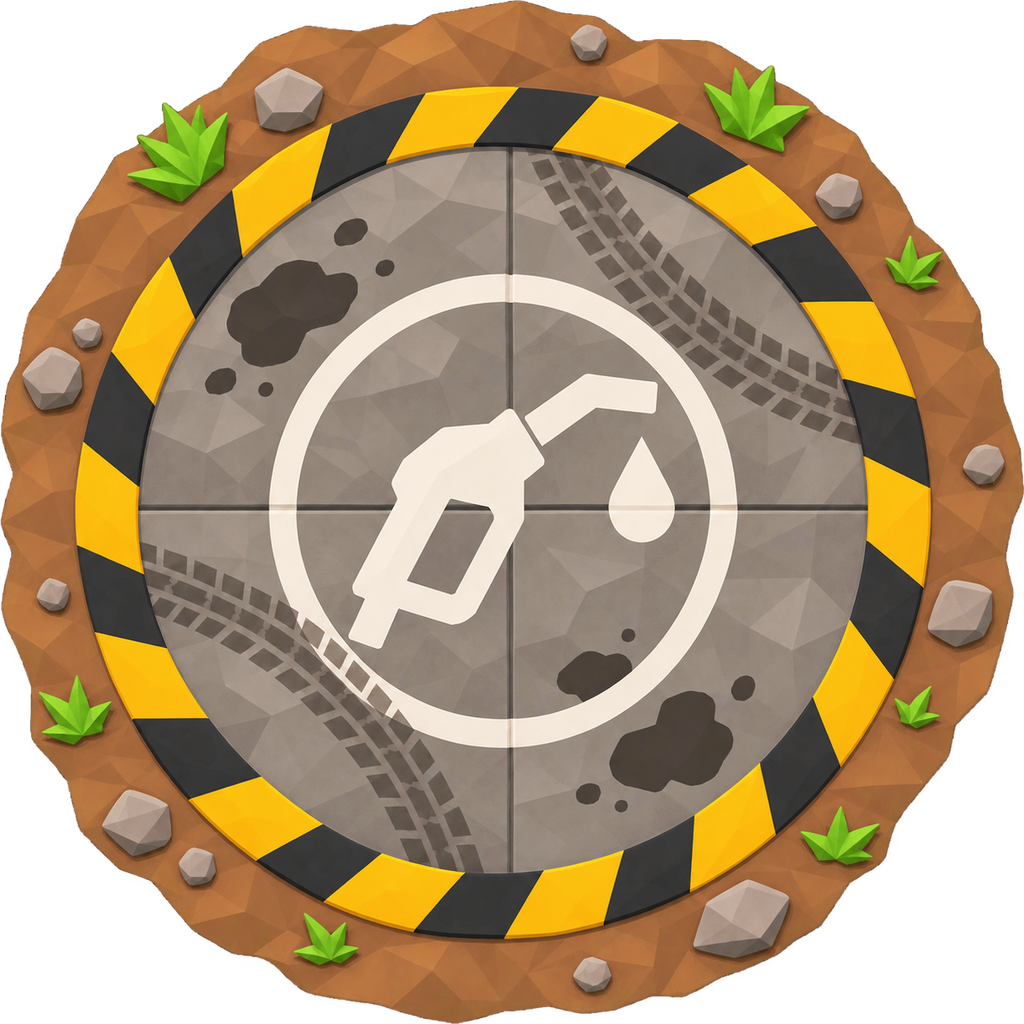
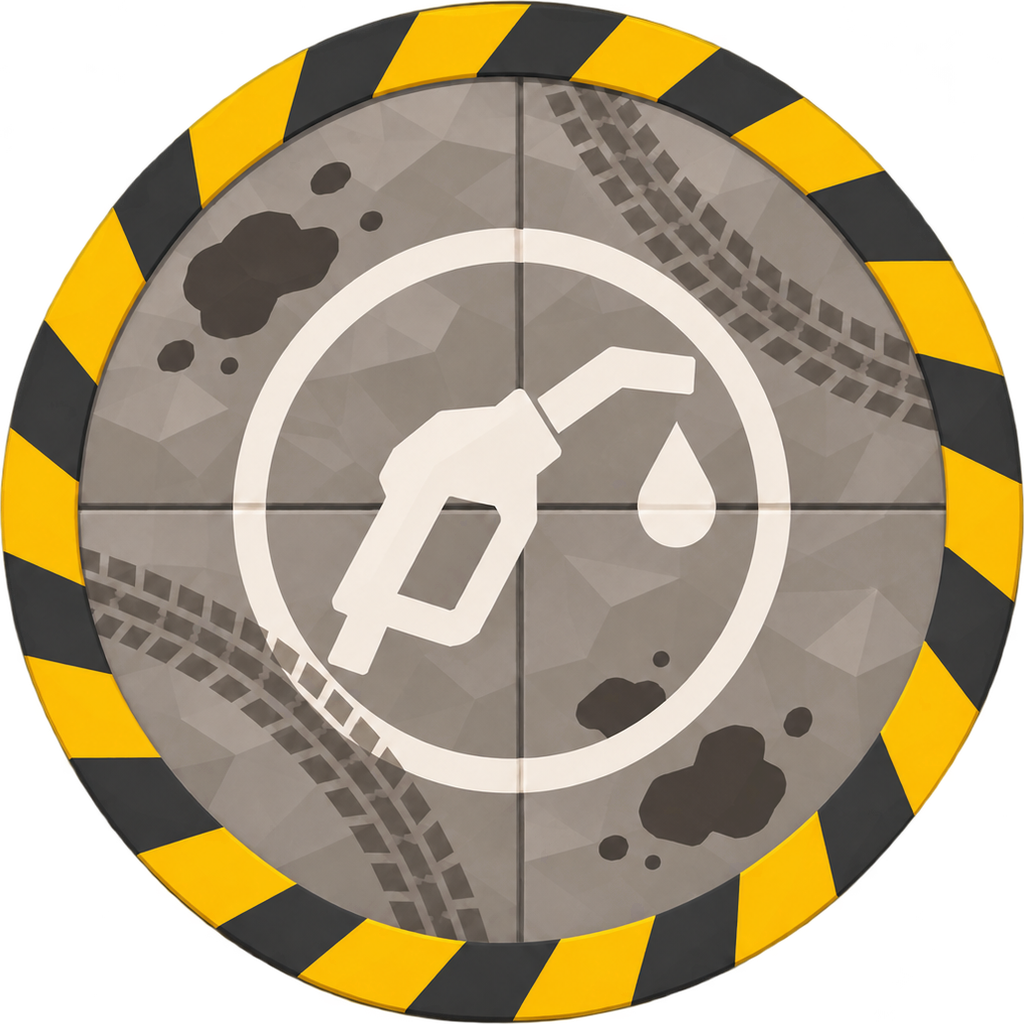
Garage: car stands on the garage floor (no platform/frame) seen from a fixed corner, button swings to the back corner (auto for rear parts); skinned car end faces in their own paint; garage footer always visible; new pump pad art
Claude-Session: https://claude.ai/code/session_01WJpr1xJfMj7kEPSM4LYWfd

diff --git a/src/scene.js b/src/scene.js
@@ -446,7 +446,12 @@ const wheelG = keep(new THREE.CylinderGeometry(1, 1, 1, 8));
 const skinTex = {};
 function skinFor(key) {
   const sk = A.skins && A.skins[key]; if (!sk) return null;
-  if (!skinTex[key]) { const tx = img => { const t = new THREE.Texture(img); t.colorSpace = THREE.SRGBColorSpace; t.anisotropy = 4; t.needsUpdate = true; t.userData.keep = true; return t }; skinTex[key] = { top: tx(sk.top), side: tx(sk.side) } }
+  if (!skinTex[key]) {
+    const tx = img => { const t = new THREE.Texture(img); t.colorSpace = THREE.SRGBColorSpace; t.anisotropy = 4; t.needsUpdate = true; t.userData.keep = true; return t };
+    // average paint colour of the roof image (opaque pixels only), darkened, for the end faces of the body block
+    let avg = null; try { const c = document.createElement('canvas'); c.width = c.height = 16; const g = c.getContext('2d'); g.drawImage(sk.top, 0, 0, 16, 16); const d = g.getImageData(0, 0, 16, 16).data; let r = 0, gg = 0, b = 0, n = 0; for (let i = 0; i < d.length; i += 4) if (d[i + 3] > 200) { r += d[i]; gg += d[i + 1]; b += d[i + 2]; n++ } if (n) avg = new THREE.Color(r / n / 255, gg / n / 255, b / n / 255).convertSRGBToLinear().multiplyScalar(.55) } catch (e) { }
+    skinTex[key] = { top: tx(sk.top), side: tx(sk.side), avg };
+  }
   return skinTex[key];
 }
 export function buildCar({ id, len: L, wid: W, color, kind, shape }) {
@@ -466,7 +471,7 @@ export function buildCar({ id, len: L, wid: W, color, kind, shape }) {
     bh = H * .55; cabH = H - bh; by = bot + bh / 2;
     const sideM = new THREE.MeshLambertMaterial({ map: sk.side, alphaTest: .45 }); sideM.color = body.color; sideM.emissive = body.emissive;
     body.alphaTest = .45; body.needsUpdate = true;
-    const endM = lam(0x3a3835);
+    const endM = lam(sk.avg || 0x3a3835); // nose and tail faces in the car's own (darkened) paint, not a black block
     const b = new THREE.Mesh(new THREE.BoxGeometry(L, H, W), [endM, endM, body, endM, sideM, sideM]); b.position.y = by - bh / 2 + H / 2; b.castShadow = b.receiveShadow = true; b.userData.skin = true; tilt.add(b);
   } else {
     const b = mesh(new THREE.BoxGeometry(L, bh, W), body); b.position.y = by; tilt.add(b);
@@ -774,7 +779,7 @@ export function initFx() {
     canSprites = Array.from({ length: 30 }, () => { const sp = new THREE.Sprite(mt); sp.scale.set(40, 40, 1); sp.visible = false; scene.add(sp); return sp });
   }
   if (A.fx.pad && !padDecal) { const tx = new THREE.Texture(A.fx.pad); tx.needsUpdate = true; tx.colorSpace = THREE.SRGBColorSpace;
-    padDecal = new THREE.Mesh(new THREE.PlaneGeometry(PUMP_R * 2.3, PUMP_R * 2.3).rotateX(-Math.PI / 2), new THREE.MeshLambertMaterial({ map: tx, transparent: true, depthWrite: false })); padDecal.position.y = .9; padDecal.receiveShadow = true; pumpG.add(padDecal); pumpG.getObjectByName('pad').visible = false }
+    padDecal = new THREE.Mesh(new THREE.PlaneGeometry(PUMP_R * 2.15, PUMP_R * 2.15).rotateX(-Math.PI / 2), new THREE.MeshLambertMaterial({ map: tx, transparent: true, depthWrite: false })); padDecal.position.y = .9; padDecal.receiveShadow = true; pumpG.add(padDecal); pumpG.getObjectByName('pad').visible = false }
   if (A.fx.fire && !fireDecal) { const tx = new THREE.Texture(A.fx.fire); tx.needsUpdate = true; tx.colorSpace = THREE.SRGBColorSpace;
     fireDecal = pool(new THREE.PlaneGeometry(1, 1).rotateX(-Math.PI / 2), addMat(tx), 300) } // additive: paint the flame on pure black
 }
@@ -1130,32 +1135,25 @@ export function portraits(cars) {
    part (and its level) shows. It sits on a slowly turning platform under a work lamp; drag to spin it. Hovering a
    part for sale previews it fitted (at the level you'd get), and the hovered slot gets a yellow outline. */
 let gp = null;
+const GARAGE_AZ = [-.62, Math.PI + .62];
+export function garageBack(on) { if (gp) gp.want = GARAGE_AZ[on ? 1 : 0] }
 export function garageView(canvas) {
   if (gp && gp.canvas === canvas) return gp;
   const r = new THREE.WebGLRenderer({ canvas, antialias: true, alpha: true });
   r.setPixelRatio(Math.min(2, window.devicePixelRatio || 1)); r.shadowMap.enabled = true; r.shadowMap.type = THREE.PCFSoftShadowMap;
   const sc = new THREE.Scene();
-  sc.add(new THREE.HemisphereLight(0xdfe8ff, 0x3a3028, 1.5));
-  const key = new THREE.DirectionalLight(0xfff0d6, 2.8); key.position.set(-50, 140, 70); key.castShadow = true;
+  sc.add(new THREE.HemisphereLight(0xffe2b8, 0x3a3028, 1.4));
+  const key = new THREE.DirectionalLight(0xffd9a0, 2.9); key.position.set(-50, 140, 70); key.castShadow = true;
   Object.assign(key.shadow.camera, { left: -80, right: 80, top: 80, bottom: -80 }); key.shadow.mapSize.set(1024, 1024); sc.add(key);
   const rim = new THREE.DirectionalLight(0x9fc8ff, 1.2); rim.position.set(80, 50, -90); sc.add(rim);
-  // the platform: dark steel disc with a hazard-striped rim and bolt heads
-  const hz = stripeTex(512, 32, (c, w, h) => { for (let i = 0; i < w / 16; i++) { c.fillStyle = i % 2 ? '#1d1b1a' : '#ffc23d'; c.beginPath(); c.moveTo(i * 16, 0); c.lineTo(i * 16 + 16, 0); c.lineTo(i * 16 + 4, h); c.lineTo(i * 16 - 12, h); c.fill() } });
-  hz.wrapS = THREE.RepeatWrapping; hz.repeat.set(3, 1);
-  const plat = new THREE.Group(); sc.add(plat);
-  const side = new THREE.Mesh(new THREE.CylinderGeometry(66, 68, 7, 40, 1, true), new THREE.MeshLambertMaterial({ map: hz })); side.position.y = -3.5; plat.add(side);
-  const disc = new THREE.Mesh(new THREE.CylinderGeometry(66, 66, 1, 40), lam(0x3c3f45)); disc.position.y = -.5; disc.receiveShadow = true; plat.add(disc);
-  const inner = new THREE.Mesh(new THREE.RingGeometry(52, 54, 40).rotateX(-Math.PI / 2), new THREE.MeshBasicMaterial({ color: 0x55585e })); inner.position.y = .05; plat.add(inner);
-  for (let i = 0; i < 12; i++) { const a = i / 12 * TAU, b = new THREE.Mesh(new THREE.CylinderGeometry(1.4, 1.4, 1, 6), lam(0x8a8d93)); b.position.set(Math.cos(a) * 60, .3, Math.sin(a) * 60); plat.add(b) }
-  const floor = new THREE.Mesh(new THREE.CircleGeometry(220, 32).rotateX(-Math.PI / 2), new THREE.ShadowMaterial({ opacity: .45 })); // see-through: only the shadow, the garage art shows behind floor.position.y = -7; floor.receiveShadow = true; sc.add(floor);
+  const plat = new THREE.Group(); sc.add(plat); // the car stands right on the painted garage floor (no platform)
+  const floor = new THREE.Mesh(new THREE.CircleGeometry(220, 32).rotateX(-Math.PI / 2), new THREE.ShadowMaterial({ opacity: .55 })); floor.position.y = .05; floor.receiveShadow = true; sc.add(floor); // see-through: only the shadow, the garage art shows behind
   const pivot = new THREE.Group(); plat.add(pivot);
   const cam = new THREE.PerspectiveCamera(26, 1.6, 1, 2000);
   const box = new THREE.Box3Helper(new THREE.Box3(), 0xffc23d); box.visible = false; sc.add(box);
-  gp = { canvas, r, sc, cam, plat, pivot, box, car: null, sig: '', rot: .7, vel: 0, drag: null, hl: null, w: 0, h: 0 };
-  canvas.addEventListener('pointerdown', e => { gp.drag = { x: e.clientX, t: performance.now() }; gp.vel = 0; canvas.setPointerCapture(e.pointerId); canvas.style.cursor = 'grabbing' });
-  canvas.addEventListener('pointermove', e => { if (!gp.drag) return; const dx = e.clientX - gp.drag.x; gp.drag.x = e.clientX; gp.rot += dx * .012; gp.vel = dx * .012 });
-  const up = () => { gp.drag = null; canvas.style.cursor = '' };
-  canvas.addEventListener('pointerup', up); canvas.addEventListener('pointercancel', up);
+  // two fixed camera corners: front three-quarter (nose to the right, like the menu art) and the opposite corner
+  // for the back; the camera swings between them
+  gp = { canvas, r, sc, cam, plat, pivot, box, car: null, sig: '', az: GARAGE_AZ[0], want: GARAGE_AZ[0], hl: null, w: 0, h: 0 };
   return gp;
 }
 // build = { slot: { id, lvl } }; rebuilt only when it changes
@@ -1178,9 +1176,9 @@ export function garageFrame(dt) {
   const { canvas, r, cam } = gp, w = canvas.clientWidth, h = canvas.clientHeight;
   if (!w || !h) return;
   if (w !== gp.w || h !== gp.h) { gp.w = w; gp.h = h; r.setSize(w, h, false); cam.aspect = w / h; cam.updateProjectionMatrix() }
-  if (!gp.drag) { gp.rot += gp.vel; gp.vel *= .93; if (Math.abs(gp.vel) < .003) gp.rot += dt * .3 }
-  gp.plat.rotation.y = gp.rot;
-  const dist = 205 / Math.min(1, cam.aspect / 1.3); cam.position.set(0, dist * .42, dist); cam.lookAt(0, 9, 0);
+  gp.az += (gp.want - gp.az) * Math.min(1, dt * 4.5); // eased swing between the two corners
+  const dist = 245 / Math.min(1, cam.aspect / 1.3), sway = Math.sin(performance.now() / 2600) * .025; // a slow breathing drift so it feels alive
+  cam.position.set(Math.cos(gp.az + sway) * dist, dist * .36, Math.sin(gp.az + sway) * dist); cam.lookAt(0, 24, 0); // aim above the car so it sits low in the frame, on the floor
   if (gp.car) for (const b of gp.car.blades || []) b.rotation.y += dt * 8;
   const parts = gp.hl && gp.car ? gp.car.partsG.children.filter(c => c.userData.slot === gp.hl) : [];
   if (parts.length) { gp.box.box.makeEmpty(); for (const p of parts) gp.box.box.expandByObject(p); gp.box.box.expandByScalar(1.5); gp.box.visible = !gp.box.box.isEmpty(); gp.box.material.opacity = .6 + .4 * Math.sin(performance.now() / 160) } else gp.box.visible = false;

diff --git a/index.html b/index.html
@@ -232,6 +232,7 @@ kbd{font:700 12px Inter,sans-serif;background:rgba(255,255,255,.12);border-radiu
 .shophead{display:flex;flex-wrap:wrap;justify-content:space-between;align-items:flex-end;gap:8px}
 .scrapct{font:800 24px Rubik,sans-serif;color:var(--haz)}
 #shop>*{width:min(1640px,100%)}
+#shop{display:flex;flex-direction:column;overflow:hidden}#shop .garage{flex:1 1 auto;min-height:0;align-items:start}#shop .garage>.col{align-content:start;max-height:100%}#shop .garage>.showroom{align-self:stretch}#blueprint{flex:1 1 auto;display:flex;flex-direction:column;min-height:0}#shop .garage>section{min-height:0;overflow-y:auto;overflow-x:visible}#shop .garage>.showroom{overflow:visible}#shop .gfoot{position:static;margin:0;flex:none;padding-bottom:0}
 .garage{display:grid;grid-template-columns:minmax(0,1fr) minmax(0,1.6fr) minmax(0,.62fr);gap:20px;align-items:start}
 .col{display:grid;gap:10px}
 #cards{display:grid;gap:8px}
@@ -379,13 +380,11 @@ kbd{font:700 12px Inter,sans-serif;background:rgba(255,255,255,.12);border-radiu
 @keyframes csFlash{from{opacity:.18}to{opacity:.88}}
 @media(prefers-reduced-motion:reduce){#craneSign.on{animation:none;opacity:.75}}
 /* garage showroom: the 3D turntable (canvas) under a work lamp, the slot grid below it */
-.showroom{min-width:0}
-.bp3d{position:relative;width:min(100%,calc((100vh - 360px) * 1.6));min-width:min(100%,360px);aspect-ratio:16/10;margin:0 auto;border-radius:14px;overflow:hidden;
-  background:radial-gradient(ellipse 60% 55% at 50% 18%,rgba(255,232,170,.2),transparent 70%),radial-gradient(ellipse at 50% 60%,rgba(40,42,48,.35),rgba(16,17,20,.7) 78%);box-shadow:inset 0 0 0 1px rgba(255,255,255,.08),0 10px 30px rgba(0,0,0,.35)}
-.bp3d::before{content:"";position:absolute;left:50%;top:0;width:14%;height:4%;transform:translateX(-50%);border-radius:0 0 50% 50%/0 0 100% 100%;background:linear-gradient(#55585e,#2a2c30);box-shadow:0 3px 0 #ffe6a8,0 4px 16px rgba(255,230,160,.8);pointer-events:none}
-.bp3d canvas{display:block;width:100%;height:100%;cursor:grab;touch-action:none}
-.bptitle{position:absolute;left:14px;top:12px;display:block;margin:0;padding:0;border:0;background:none;z-index:1;font:800 clamp(16px,1.6vw,22px) Rubik,sans-serif;color:#efe3c8;text-shadow:0 2px 6px rgba(0,0,0,.6);pointer-events:none}
-.bphint{position:absolute;left:0;right:0;bottom:10px;text-align:center;font:600 12px Inter,sans-serif;color:rgba(255,255,255,.45);pointer-events:none}
+.showroom{min-width:0;display:flex;flex-direction:column;align-self:stretch;min-height:0}
+.bp3d{position:relative;width:100%;flex:1 1 auto;min-height:220px;overflow:visible} /* no frame: the car stands on the garage floor of the backdrop */
+.bp3d canvas{position:absolute;inset:-6% -8% -4%;width:116%;height:110%;display:block}
+.viewbtn{position:absolute;left:50%;bottom:6px;transform:translateX(-50%);z-index:2;min-height:38px;padding:6px 16px;font-size:14px;background:rgba(30,31,36,.82);backdrop-filter:blur(4px)}
+.bptitle{position:absolute;left:4px;top:0;display:block;margin:0;padding:0;border:0;background:none;z-index:1;font:800 clamp(16px,1.6vw,22px) Rubik,sans-serif;color:#efe3c8;text-shadow:0 2px 6px rgba(0,0,0,.6);pointer-events:none}
 .bpprev{position:absolute;right:14px;top:14px;font:800 12px Rubik,sans-serif;letter-spacing:.06em;color:#1d1b1a;background:#ffc23d;border-radius:8px;padding:4px 9px;pointer-events:none}.bpprev:empty{display:none}
 .slotgrid{display:grid;grid-template-columns:repeat(4,minmax(0,1fr));gap:8px;margin-top:10px}
 .slotgrid .chip{position:relative;left:auto;top:auto;transform:none;width:auto;max-width:none;min-width:0}

diff --git a/src/ui.js b/src/ui.js
@@ -1,7 +1,7 @@
 // DOM side: loading screen, language picker, menus, garage, game over, HUD, floating numbers.
 import { G, CRANE, START_T, OPTS, saveOpts, quitLap, PUMP_RESERVE, price, lvlOf, targetLvl, tierOf, nameOf, descOf, buy, reroll, toggleLock, nextWave, fmt, fmtL, repair, repairCost } from './game.js';
 import { CARS, PART, SLOTS, ALL_SLOTS, TAGC, PACKS, WSTAT } from './data.js';
-import { garageView, garageSet, garageFrame } from './scene.js';
+import { garageView, garageSet, garageFrame, garageBack } from './scene.js';
 import { t, L } from './i18n.js';
 import { A } from './assets.js';
 
@@ -151,7 +151,8 @@ function bpView(view) {
 // The garage shows your car as a live 3D model on a turntable (scene.js garageView) instead of the old drawings:
 // every fitted part is on it, a slot grid underneath lists what's where (hover for details), and hovering a part
 // for sale previews it fitted on the car with its slot outlined.
-let gHover = null, gLoop = false;
+let gHover = null, gLoop = false, gBack = false;
+const BACK_SLOTS = ['rear', 'trunk', 'turret2'], FRONT_SLOTS = ['front', 'hood'];
 function slotChip(slot) {
   const b = G.build[slot], on = b ? ' on' : '';
   const tip = b ? `<span class="tip"><b>${esc(partName(b.id))} · Lv ${b.lvl}/${PART[b.id].max}</b><span>${esc(partDescAt(b.id, b.lvl))}</span><i style="color:${TAGC[PART[b.id].tag]}">${esc(L().tags[PART[b.id].tag])}</i></span>` : '';
@@ -160,11 +161,12 @@ function slotChip(slot) {
 function renderBlueprint() {
   const id = G.P.car.id;
   if (!$('bpCanvas')) {
-    $('blueprint').innerHTML = `<div class="bp3d"><canvas id="bpCanvas" aria-label="3D"></canvas><div class="bptitle" id="bpTitle"></div><div class="bphint" id="bpHint"></div><div class="bpprev" id="bpPrev"></div></div><div class="slotgrid" id="slotGrid"></div>`;
+    $('blueprint').innerHTML = `<div class="bp3d"><canvas id="bpCanvas" aria-label="3D"></canvas><div class="bptitle" id="bpTitle"></div><button class="btn alt viewbtn" id="bpView" type="button"></button><div class="bpprev" id="bpPrev"></div></div><div class="slotgrid" id="slotGrid"></div>`;
     $('slotGrid').addEventListener('pointerover', ev => { const c = ev.target.closest('.chip'); gHover = c && G.build[c.dataset.slot] ? { slot: c.dataset.slot } : null });
     $('slotGrid').addEventListener('pointerleave', () => { gHover = null });
+    $('bpView').onclick = () => { gBack = !gBack };
   }
-  set($('bpTitle'), `${L().cars[id][0]} (${YEAR[id] || 1984})`); set($('bpHint'), t('dragRotate'));
+  set($('bpTitle'), `${L().cars[id][0]} (${YEAR[id] || 1984})`); 
   $('slotGrid').innerHTML = ALL_SLOTS.map(slotChip).join('');
   garageView($('bpCanvas'));
   if (!gLoop) { gLoop = true; let last = performance.now(); const tick = now => {
@@ -172,6 +174,9 @@ function renderBlueprint() {
     const build = { ...G.build }; let hl = gHover && gHover.slot, prev = '';
     if (gHover && gHover.item) { const it = gHover.item, d = PART[it.id]; build[d.slot] = { id: it.id, lvl: targetLvl(it) }; hl = d.slot; prev = t('previewing', { x: nameOf(it), n: targetLvl(it) }) }
     set($('bpPrev'), prev);
+    // look from the back for parts on the back of the car, from the front for front parts, else where you chose
+    const back = hl && BACK_SLOTS.includes(hl) ? true : hl && FRONT_SLOTS.includes(hl) ? false : gBack;
+    garageBack(back); set($('bpView'), back ? t('viewFront') : t('viewBack'));
     garageSet(build, hl); garageFrame(Math.min(.05, (now - last) / 1000)); last = now; requestAnimationFrame(tick) };
     requestAnimationFrame(tick) }
 }

diff --git a/src/i18n.js b/src/i18n.js
@@ -48,7 +48,7 @@ const T = {
     bpViews: { side: "Zijaanzicht", top: "Bovenaanzicht" }, slots: {"turret": "Koepel (vaste)", "turret2": "Tweede koepel", "roof": "Dak", "hood": "Motorkap", "front": "Voorbarsjok", "rear": "Achterbarsjok", "trunk": "Koffer", "sides": "Zijkanten"},
     packs: {"britland": ["Britland", "De Mini Cooper en den Engelsen taxi. Thee drinken mag.", ["Mini Cooper", "Londense taxi"]], "f1": ["Da rappe wè", "Ne Formule 1 en de Safety Car. Stief rap, stief broos.", ["Formule 1", "Safety Car"]]},
     forSale: "Te koop",
-    blueprint: "Je otto", dragRotate: "Sleur om te droaien", previewing: "Proberen: {x} (Lv {n})",
+    blueprint: "Je otto", viewBack: "Bekijk de bachtekant", viewFront: "Bekijk de veurkant", previewing: "Proberen: {x} (Lv {n})",
     empty: "Leeg",
     replaces: "Vervangt {x}",
     upTo: "Nor Lv {n}",
